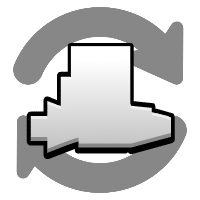
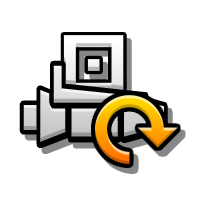
so yeah

diff --git a/src/main.cpp b/src/main.cpp
@@ -431,7 +431,7 @@ class $modify(IPGarageLayer, GJGarageLayer){
         }
 
         if (enableReloadBtn) {
-            auto spr = CircleButtonSprite::createWithSprite("reload.png"_spr, 1.0f, CircleBaseColor::Pink, CircleBaseSize::Small);
+            auto spr = CircleButtonSprite::createWithSprite("reload.png"_spr, 1.25f, CircleBaseColor::Green, CircleBaseSize::Small);
             auto reloadButton = CCMenuItemSpriteExtra::create(
                 spr,
                 this,

diff --git a/about.md b/about.md
@@ -7,7 +7,6 @@ By default, this mod does some funny stuff to ensure proper layering if ***Glow*
 
 ## Compatibility with other Icon Mods
 - <cg>More Icons</c>: Should be completely compatible and functional!
-- <co>Fine Outline</c>: Works, but cube won't have the custom outline color.
-- <co>Separate Dual Icons</c>: Cube preview will only exist for Player 1. Proper compat planned in a future update!
-
-*<c-383838>Preview on Jetpack is planned too, btw. Don't worry.</c>*
+- <cy>Separate Dual Icons</c>: Semi-works! Switching P1<->P2 icon sets needs a reload of the icon preview afterwards. (Check mod settings!)
+- <co>Fine Outline</c>: Works, cube won't have the custom outline color.
+- <co>Icon Gradients</c>: Works, cube won't have the custom gradient applied.

diff --git a/README.md b/README.md
@@ -9,7 +9,6 @@ By default, this mod does some funny stuff to ensure proper layering if ***Glow*
 
 ## Compatibility with other Icon Mods
 - **More Icons**: Should be completely compatible and functional!
-- **Fine Outline**: Works, but cube won't have the custom outline color.
-- **Separate Dual Icons**: Cube preview will only exist for Player 1. Proper compat *(maybe)* planned in a future update!
-
-*Preview on jetpack is planned too, btw. Don't worry.*
+- **Separate Dual Icons**: Semi-works! Switching P1<->P2 icon sets needs a reload of the icon preview afterwards. (Check mod settings!)
+- **Fine Outline**: Works, cube won't have the custom outline color.
+- **Icon Gradients**: Works, cube won't have the custom gradient applied.

diff --git a/changelog.md b/changelog.md
@@ -3,6 +3,7 @@
 - Added *Separate Dual Icons* Compatibility.
 - Internal code improvements.
 - Added link to Source code (sorry).
+- Added an option to add a Reload Button to the garage, for easier updating of the Icon Preview.
 
 # 1.0.0
 - Initial release!
